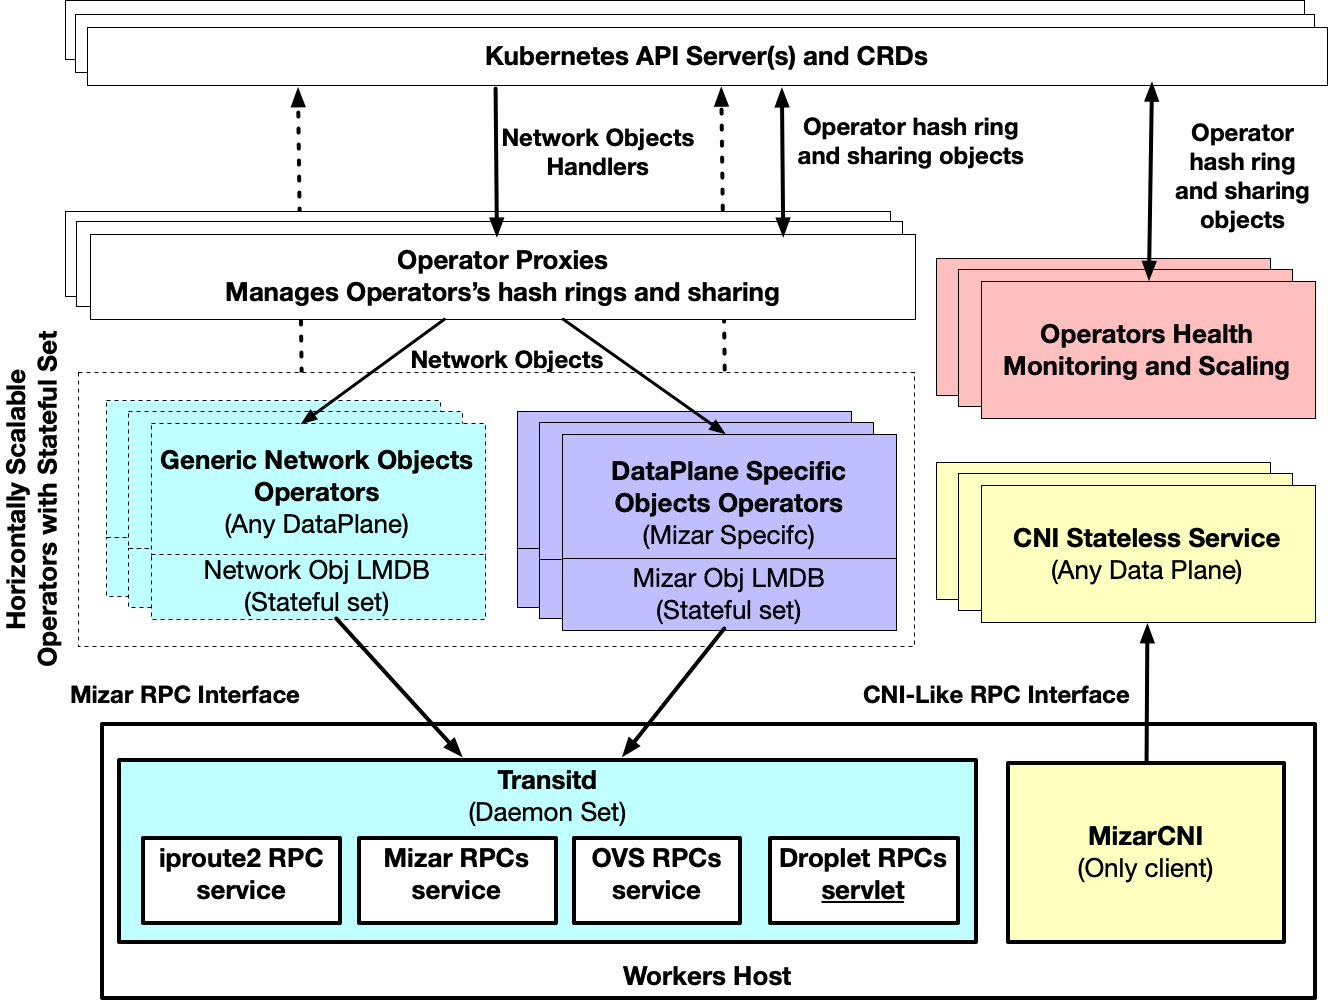
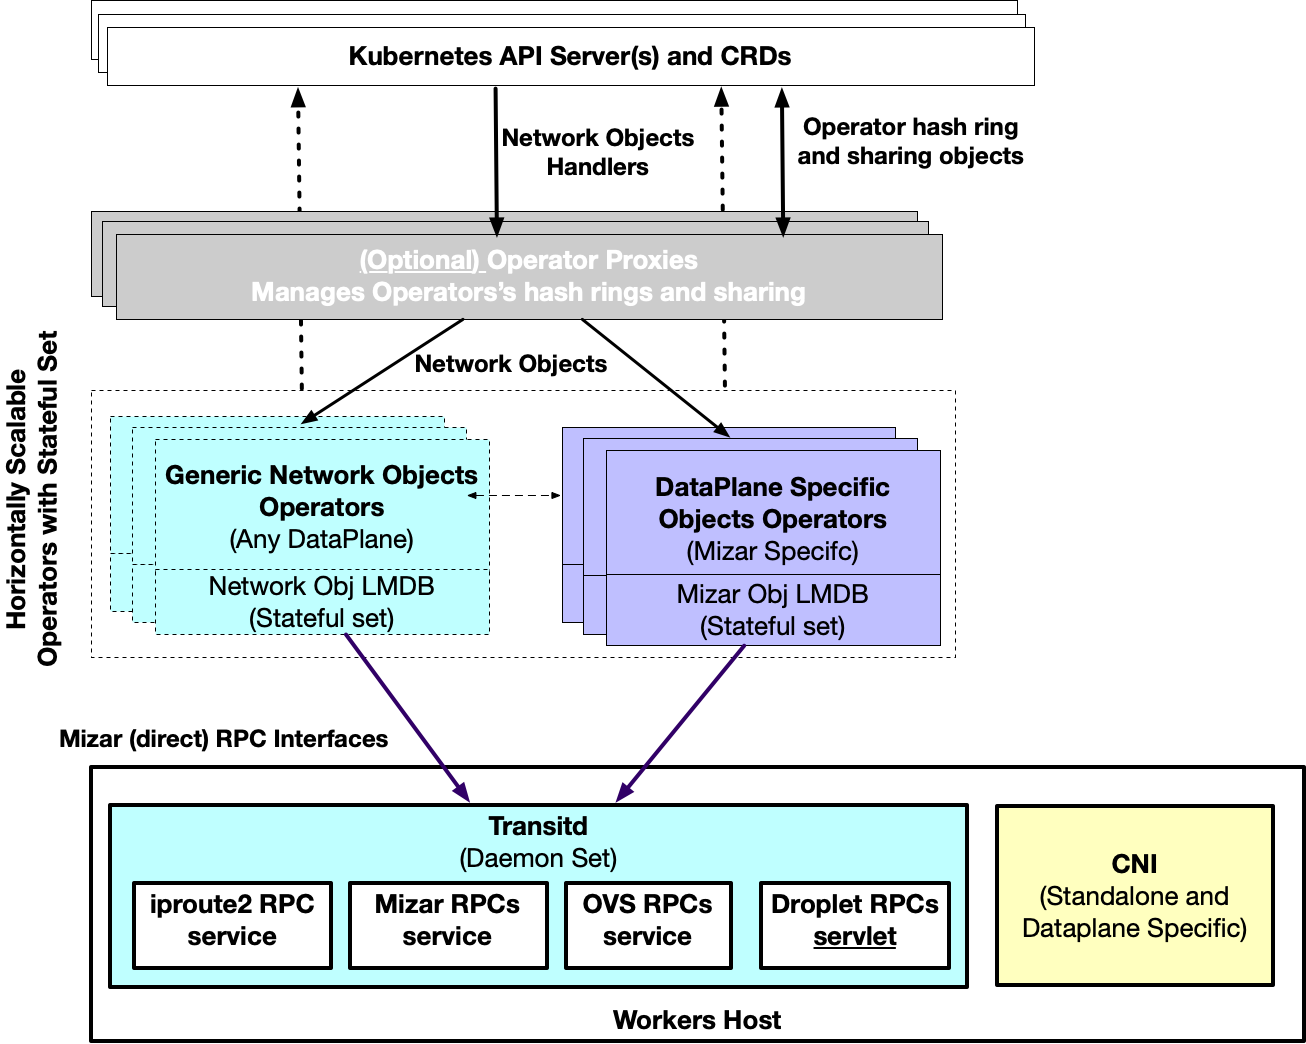
High level architecture description

diff --git a/Documentation/design/management_plane.md b/Documentation/design/management_plane.md
@@ -1,36 +1,178 @@
 
 # Mizar Management Plane
 
-## Overall Architecture
+Mizar's management plane is based on refactoring the test controller
+we have in Mizar into Kubernetes based operators. The test controller
+allowed us to design the initial workflows functionality, which we
+extend it here into a fully distributed, elasticaly scaling, and
+kubernetes-native design. Several existing components allows this
+design to happen, which we reuse:
+
+1. **Kubernetes Custom Resouce Definition:** Allows us to extend the K8s
+   API server with networking objects. Some of these objects are
+   generic to any networking solutions and some of them are specific
+   to Mizar.
+2. **Kubernetes Operator Framework:** [Operators
+   Pattern](https://kubernetes.io/docs/concepts/extend-kubernetes/operator/)
+   helps extending Kubernetes with domain-specific operators that
+   client APIs that _act as a controller_ for CRDs. Operator
+   frameworks allow us to write custom lightweight operators the
+   derive the networking objects life-cycle. We particulary use
+   **Kopf** extensively as it allows us to easily refactor the test controller as both are python based.
+3. **LMDB**: Provides a light-weight in-memory transactional database
+   that is __local__ to each Operator.
+
+## Object-Pipeline Architecture
+
+The following diagram illustrates the overall architecture of the
+management plane. The main components of this architectures are
+objects and operators.
 
 ![Overall Architecture](./figures/management_plane.png)
 
-### Generic Operators
+Objects are any networking object, that the
+management plane derives their life-cycle. When it's first created an
+object becomes in Init state. Multiple operators work together - in
+a distributed way - to evolve an object state to a Provisioned state.
+Between the Init and the Provisioned state, an Operator may transition
+the object's state to other intermediate states that are specific to
+the data-plane requirements. Once the object is Provisioned it implies
+that the data-plane is ready to function given that object symantics.
 
-* **Droplet Operator**:
-* **VPC Operator**:
-* **Network Operator**:
-* **Endpoint Operator**:
+We refer to this process as the Object-pipeline, which is illustrated
+in the following diagram of a Generic Object Pipeline. We will explain
+several example of the application of this approach to develop Mizar's
+workflows.
+
+![Genric Object Pipeline](./figures/object_pipeline.png)
+
+Operators program the data-plane through direct RPC interfaces exposed
+by Transid (a daemon-set running in each worker host). These RPC
+interface allows the management plane to follow the well-known design
+pattern of having less number of management-plane clients call large
+number of servers to prevent failures to cascade between components.
+Also having "One" daemon-set exposes multiple extensible RPC
+interfaces minimizes the number of agents on the hosts, improves
+deployment story, and reduces the chances of cycle-stealing from
+actual workload on the host.
+
+We split Objects and Operators into two main categories: Generic, and
+DataPlane specific. The Generic objects are necessary for any
+cloud-networking solutions such as: VPC (or Network in Neutron
+terminology), Network (or Subnet in Neutron), Endpoint (or Port in
+Neutron), And Droplet which specifies a host (Or a Worker node in
+Kubernetes). The other category of objects are those that are
+data-plane specific; For Mizar these are Bouncers and Dividers
+Objects.  Each Object's must specify a "status" field that indicates
+the status of the object in the pipeline. Two statuses are necessary:
+Init, and Provisioned. In the PoC, the Management plane has four
+generic objects: Droplet, VPC, Network, and Endpoint. Each Object is
+specified using Custom Resource Definitions (CRDs).
+
+Each Operator is responsible for maintaining the data of one and only
+one object (Stateful Object). We call this a Stateful Object from the
+operator perspective, since the Operator maintains its data. It is
+mandatory that an Operator updates the data for its Object when it is
+in the Provisioned state and optional in any other state. Operators
+may also mutate the state of objects other than its Stateful Object,
+but never store these objects data. We call these Objects Mutable
+objects from an Operator perspective. The Objects types with respects
+to Operators will become clear as we detail Mizar's workflow.
+
+The specification of an Operator's Stateful Object, Mutable Object,
+and Mutating Actions are what defines the management plane workflow.
+
+## Inter-Operators Communications
+
+Operators communicate with each other to evolve the object's state.
+When an operator mutates the state of the object it invokes the next
+operator(s) in the object pipeline. The invocation is done through a
+callback mechanism. According to the deployment and specific
+implementation the callback is translated into one of multiple modes.
+In all of these modes, the operator developer only focuses on the
+workflow through calling the callback function without worrying about
+the details of the communication implementation.
+
+1. **Through the API Server(s)**: In this mode, operators communication is
+   implicit with the help of the API server. As one operator makes the
+   callback to invoke the next step of the object pipeline, the
+   only changes the object state and update the object rhough the API
+   server. As the next Operator in the pipeline handles the object in
+   the new state, communication happens implicitly. The drawback of
+   this approach is the loading on the API server, the latency
+   involved to evolve the object's pipeline. The advantage is that the
+   object state is always tracked through the system.
+1. **Direct Service Communication**: In this mode, operators exposes a
+   service interface through RPC or any other mechanism, and the
+   callback effectively calls the RPC on the other operator. The
+   calling operators must handle failure scenarios in such case. The
+   drawback of this approach is the complexity of handling failure
+   scenarios. Also, as the intermediate states of the objects are not
+   updates to the API server, it becomes harder to troubleshoot
+   problems in the object-pipeline. This approach __may__ have latency
+   advantage, especially if the API server communication is a
+   bottlneck. However, if the API server and kubernetes storage scales
+   horizontally latency of the this approach and the second approach
+   may be comparable. In that case, this approac only adds
+   implementation complexitie that are hard to diagnose.
+1. **Simple Function Calls**: In this mode, all operators are deployed
+   into a single (horizontally scalable) operator. The functional
+   implementation of the operators is still seperated through
+   call-back interfaces. But the callbacks are implemented as simply
+   function calls. This approach is the simplist to develop, test, and
+   diagnose. It also minimizes the latency since there is no network
+   communication between the operators. Only the initial and final
+   state of the objects must be updated through the API server. All
+   other intermediate states are hidden. The drawback of this approach
+   though is that local object store of the operator may have a huge
+   size. The other drawback is similar to the second mode where  the
+   intermediate states of the objects are not avaiable to the API
+   server; hence, it is harder to troubleshoot and track the object
+   state for problem diagnosis.
+
+The drawback of the third approach are of a less impact on the
+development, performance, and operation. Not to mention simplicity.
+First, we can solve the local object store size problems by means of
+sharding through an operator proxy layer (which is a typical design
+pattern). The proxy layer shards the objects across replicas of the
+operator hence both reduce overload and local object store size.
+Second, the other drawback of tracking the object state for
+troubleshooting becomes less of a concern in the simple function calls
+mode because state transitions is within the same process with unified
+logging, and metering.
+
+## Horizontal Scaling
+
+### Generic Network Objects and Operators
+
+#### **Droplet Operator**:
+
+#### **VPC Operator**:
+
+#### **Network Operator**:
+
+#### **Endpoint Operator**:
 
 As we extend Mizar's features, we will be introducing more operators
 such as: security group operator, nacl.
 
-### Mizar specific operators
-* **Bouncer Operator**:
-* **Divider Operator**:
+### Data-plane Specific Objects Operators
 
+The overall architecture is extensible to support
 
-### Object-Pipeline Pattern
+In case of Mizar, we have two unique objects that the management plane
+manages its life-cyle: Bouncers, Dividers. For these objects, we have
+introduced the following operators:
 
-![Object pipeline](./figures/object_pipeline.png)
+#### **Bouncer Operator**:
+#### **Divider Operator**:
+
 
 ### Resumable Object Processing
 
-### Horizontal Scaling
-
 ### Stateful Operator Resilience
 
-## Workflows
+## Mizar Management Workflows
 
 ### VPC Object Life Cycle
 
